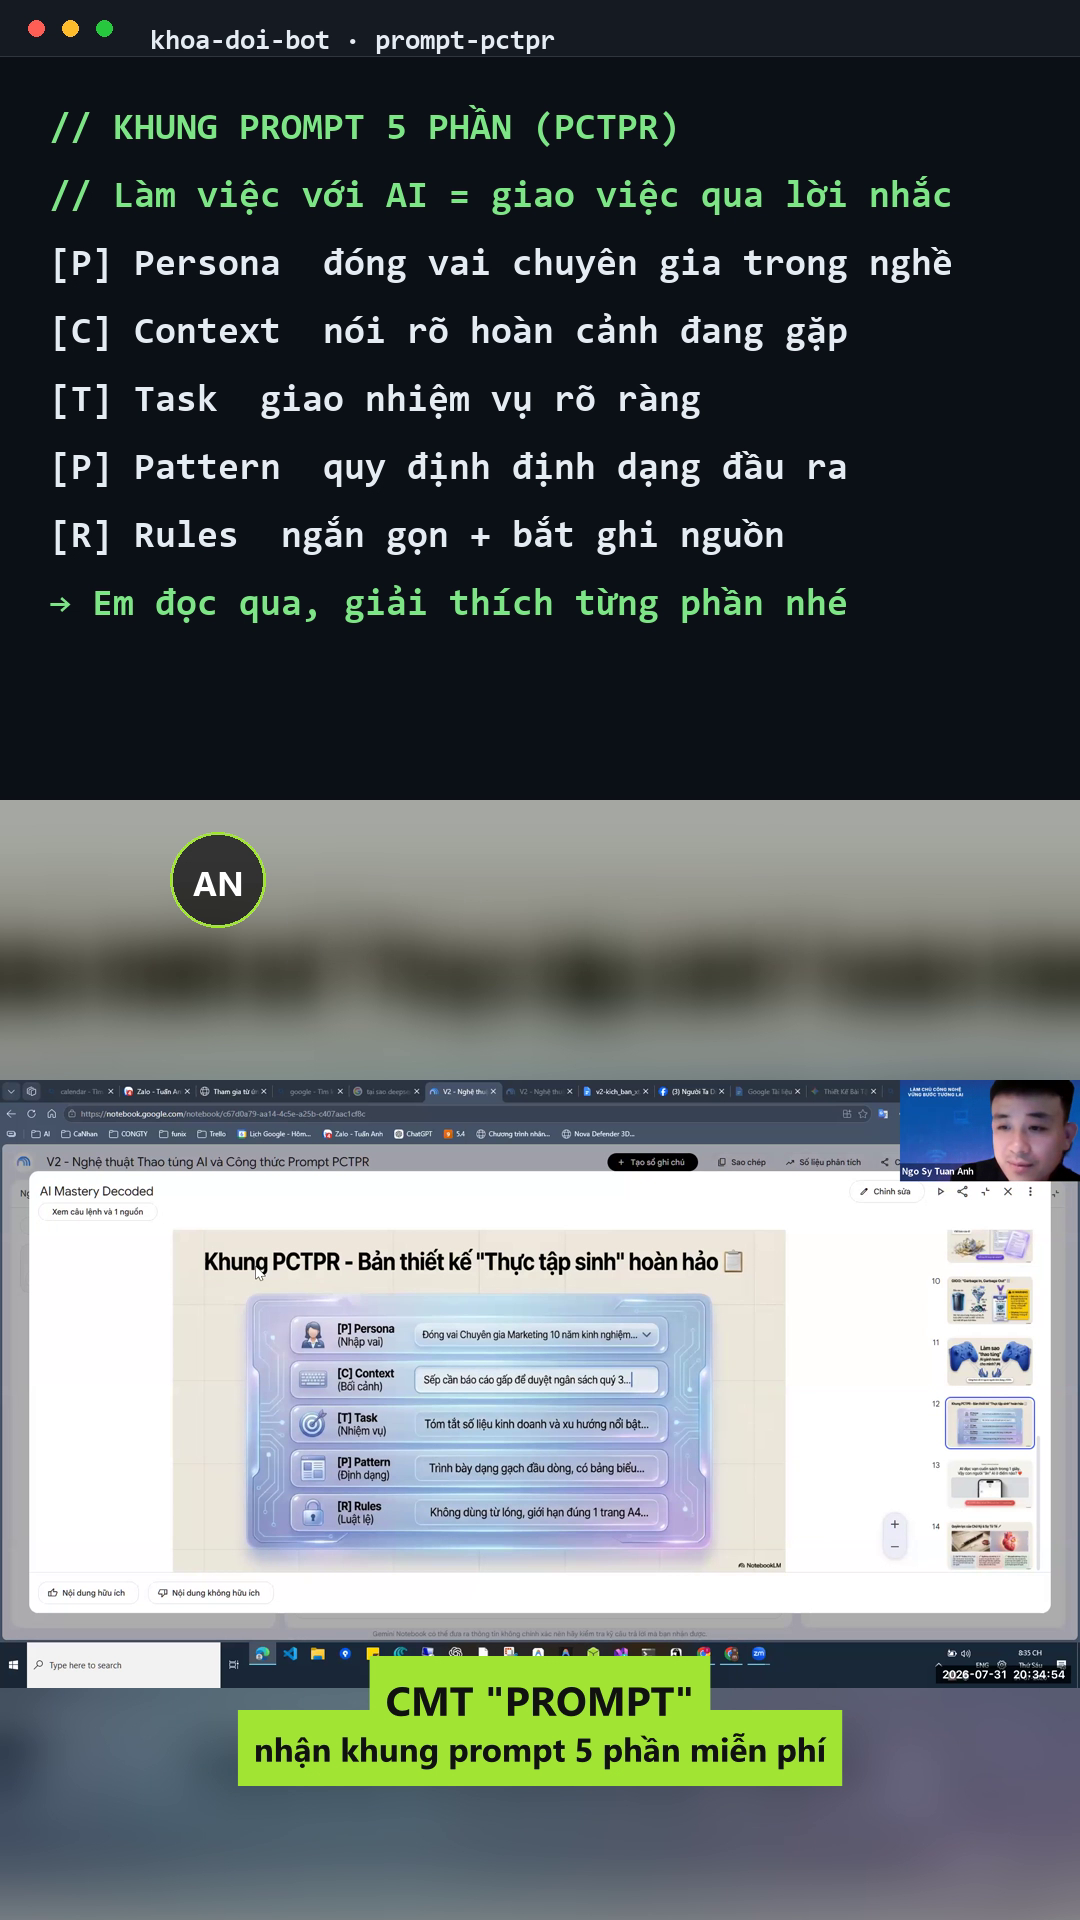
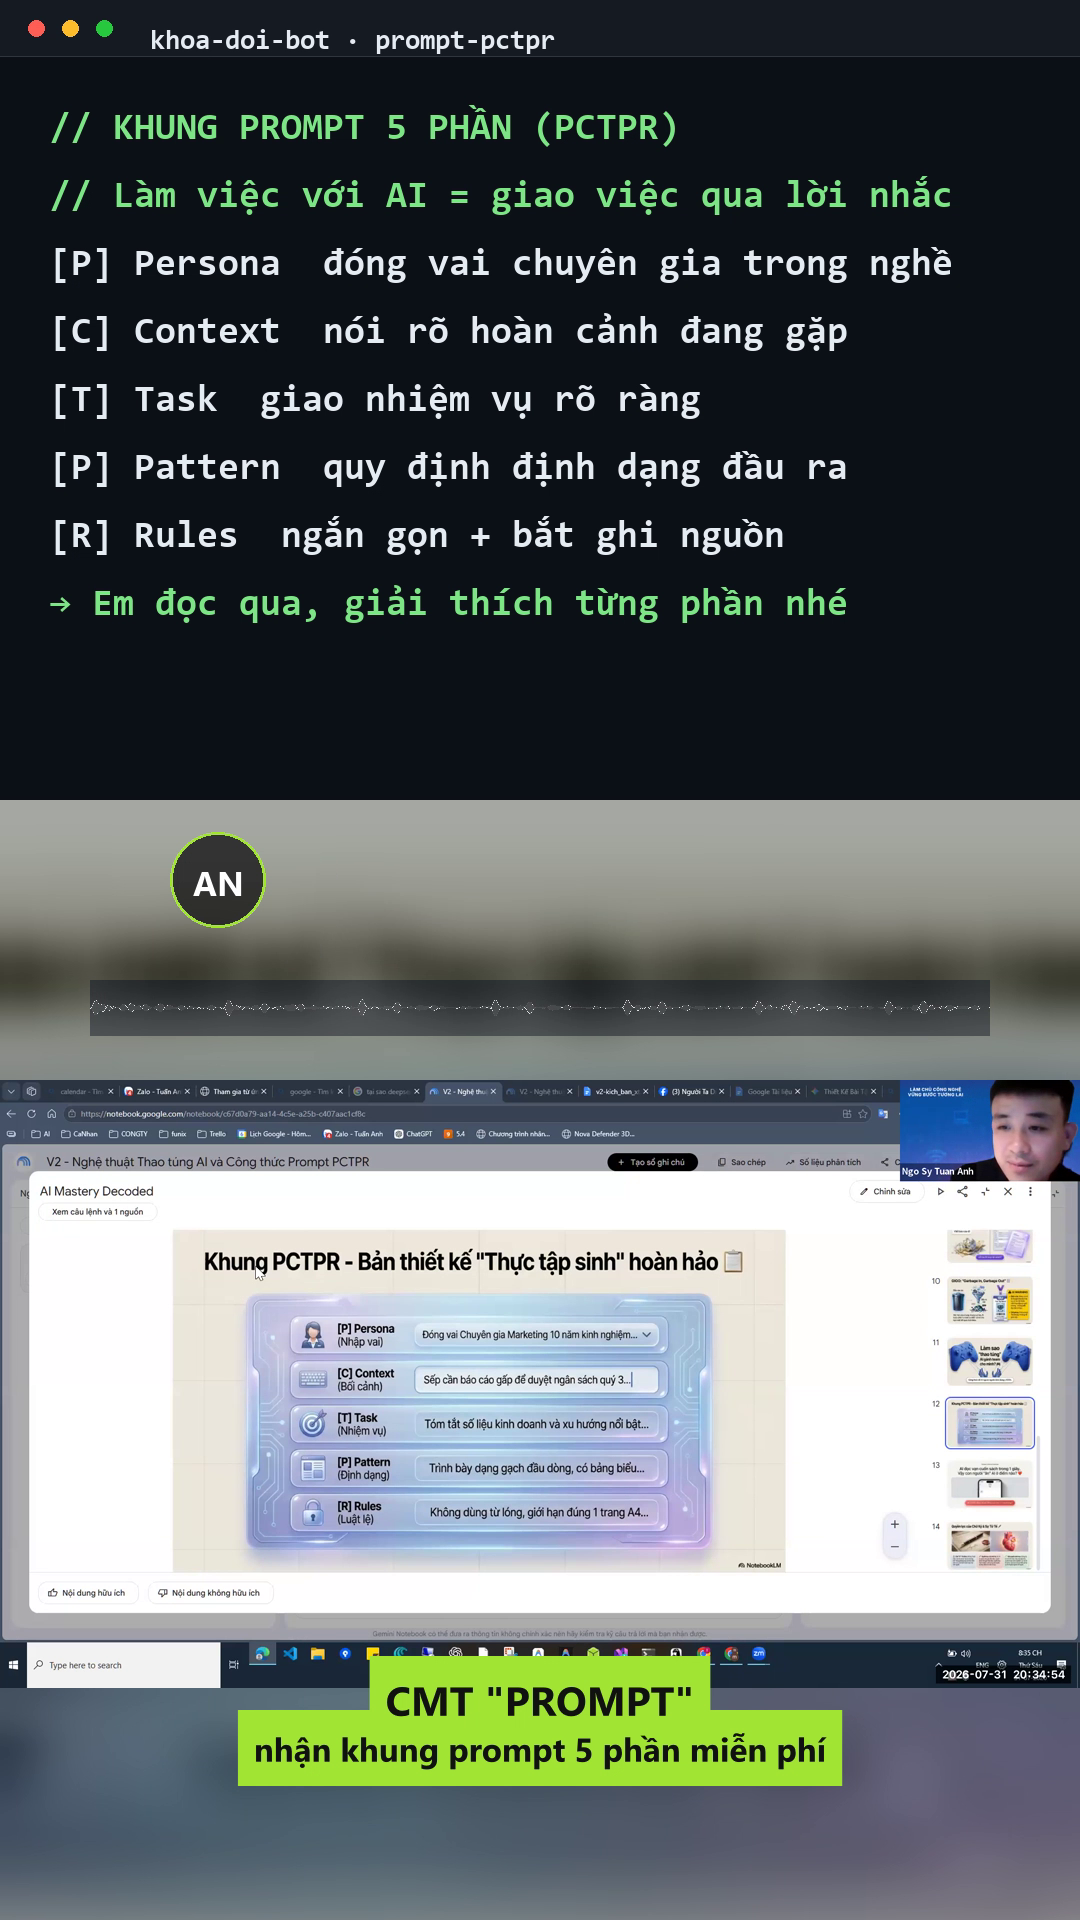
E3b waveform giua: diem 91 (best moi, best.mp4) — E3 90 discard vi de slide

Changed region(s): [[0.0611, 0.5, 0.9167, 0.5625]]

diff --git a/render_code_variant.py b/render_code_variant.py
@@ -204,6 +204,7 @@ def main() -> int:
     ass_path.write_text(build_ass(v, dur), encoding="utf-8")
 
     badge = make_badge(v, work)
+    show_wave = bool(v.get("waveform"))
 
     # 3) ghép
     cmd = [
@@ -228,9 +229,20 @@ def main() -> int:
     if badge:
         chain += f"[{last}][3:v]overlay=170:832[c4];"
         last = "c4"
-    chain += f"[{last}]ass={ass_path.relative_to(out_buoi).as_posix()}[vout];[0:a]loudnorm=I=-16:TP=-1.5:LRA=11[aout]"
-    cmd += ["-filter_complex", chain,
-        "-map", "[vout]", "-map", "[aout]",
+    audio_tail = "[0:a]loudnorm=I=-16:TP=-1.5:LRA=11[aout]"
+    if show_wave:
+        # waveform trắng theo nhịp giọng nói — trong dải mờ giữa code và footage
+        wave_y = int(v.get("waveform_y", 986))
+        chain += (
+            f"[{last}]drawbox=x=90:y={wave_y - 6}:w=900:h=56:color=0x0D1117@0.45:t=fill[wbg];"
+            "[0:a]asplit=2[aw][al];"
+            "[aw]showwaves=s=900x44:mode=cline:colors=0xFFFFFF:rate=25[wave];"
+            f"[wbg][wave]overlay=x=(W-w)/2:y={wave_y}:shortest=1[wv];"
+        )
+        last = "wv"
+        audio_tail = "[al]loudnorm=I=-16:TP=-1.5:LRA=11[aout]"
+    chain += f"[{last}]ass={ass_path.relative_to(out_buoi).as_posix()}[vout];{audio_tail}"
+    cmd += ["-filter_complex", chain, "-map", "[vout]", "-map", "[aout]",
         "-t", f"{dur:.3f}",
         "-c:v", "libx264", "-preset", a.preset, "-crf", "20",
         "-r", "25", "-pix_fmt", "yuv420p",

diff --git a/diem/diem_log.md b/diem/diem_log.md
@@ -6,7 +6,9 @@ Metric duy nhất: rubric.md (100 điểm). Best hiện tại ghi đầu bảng.
 |---|---|---|---|---|
 | E0 | Baseline (video S06 đã duyệt 01/11) | 86 | ✔ | 86 |
 | E1 | Badge "AN" tròn viền lime mép trái pill | 87 | ✔ | 87 |
-| E2 | Ghost lines + highlight dòng đang gõ | **90** | ✔ best | **90** |
+| E2 | Ghost lines + highlight dòng đang gõ | 90 | ✔ | 90 |
+| E3 | Waveform đè slide footage (y=1520) | 90 | ✗ discard | 90 |
+| E3b | Waveform vào dải mờ giữa (y=986) | **91** | ✔ best | **91** |
 
 ## E0 — Baseline: 86 điểm (tag v0)
 
@@ -39,11 +41,17 @@ Chấm trên diem/E0_baseline/ (ffprobe: 1080x1920, 50.00s — chuẩn).
 - Lỗi nhỏ ghi nhận: highlight rỗng 0.3s đầu mỗi dòng (chars=0) — chấp nhận.
 - Best → output/best.mp4.
 
+## E3/E3b — Waveform: E3 90 discard; E3b 91 keep (tag v3, ffprobe 50.00s)
+
+- E3: waveform đè slide NotebookLM → mục 7 trừ; đồng điểm → discard theo luật.
+- E3b: dời y=986 vào dải mờ — mục 8: 9 → 10 (4 lớp nhịp: typing+highlight+ghost+waveform).
+- **Cải tiến đặc biệt đầu tiên → output/best.mp4** (Telegram chưa cấu hình).
+
 ## Backlog vòng kế (1 vòng = 1 cải tiến)
 
 - E1: badge "AN" tròn bên trái pill + nền pill đặc hơn (so mẫu fb2) — mục 2
 - E3: [ĐANG LÀM] waveform audio thật (showwaves) trước CTA — mục 8
-- E4: intro hook 1.2s đầu: chữ to fade-in — mục 8
+- E4: [ĐANG LÀM] nền đặc vùng mờ giữa, xử chữ nhòe — mục 7
 - E5: CTA nhấp nháy nhẹ \f + viền pill tương phản — mục 5, 8
 - E6: tint viền phân tách 3 tầng, xử dải blur bẩn — mục 7
 - E7: auto-sync code_lines từ cue VTT — mục 3, 10
